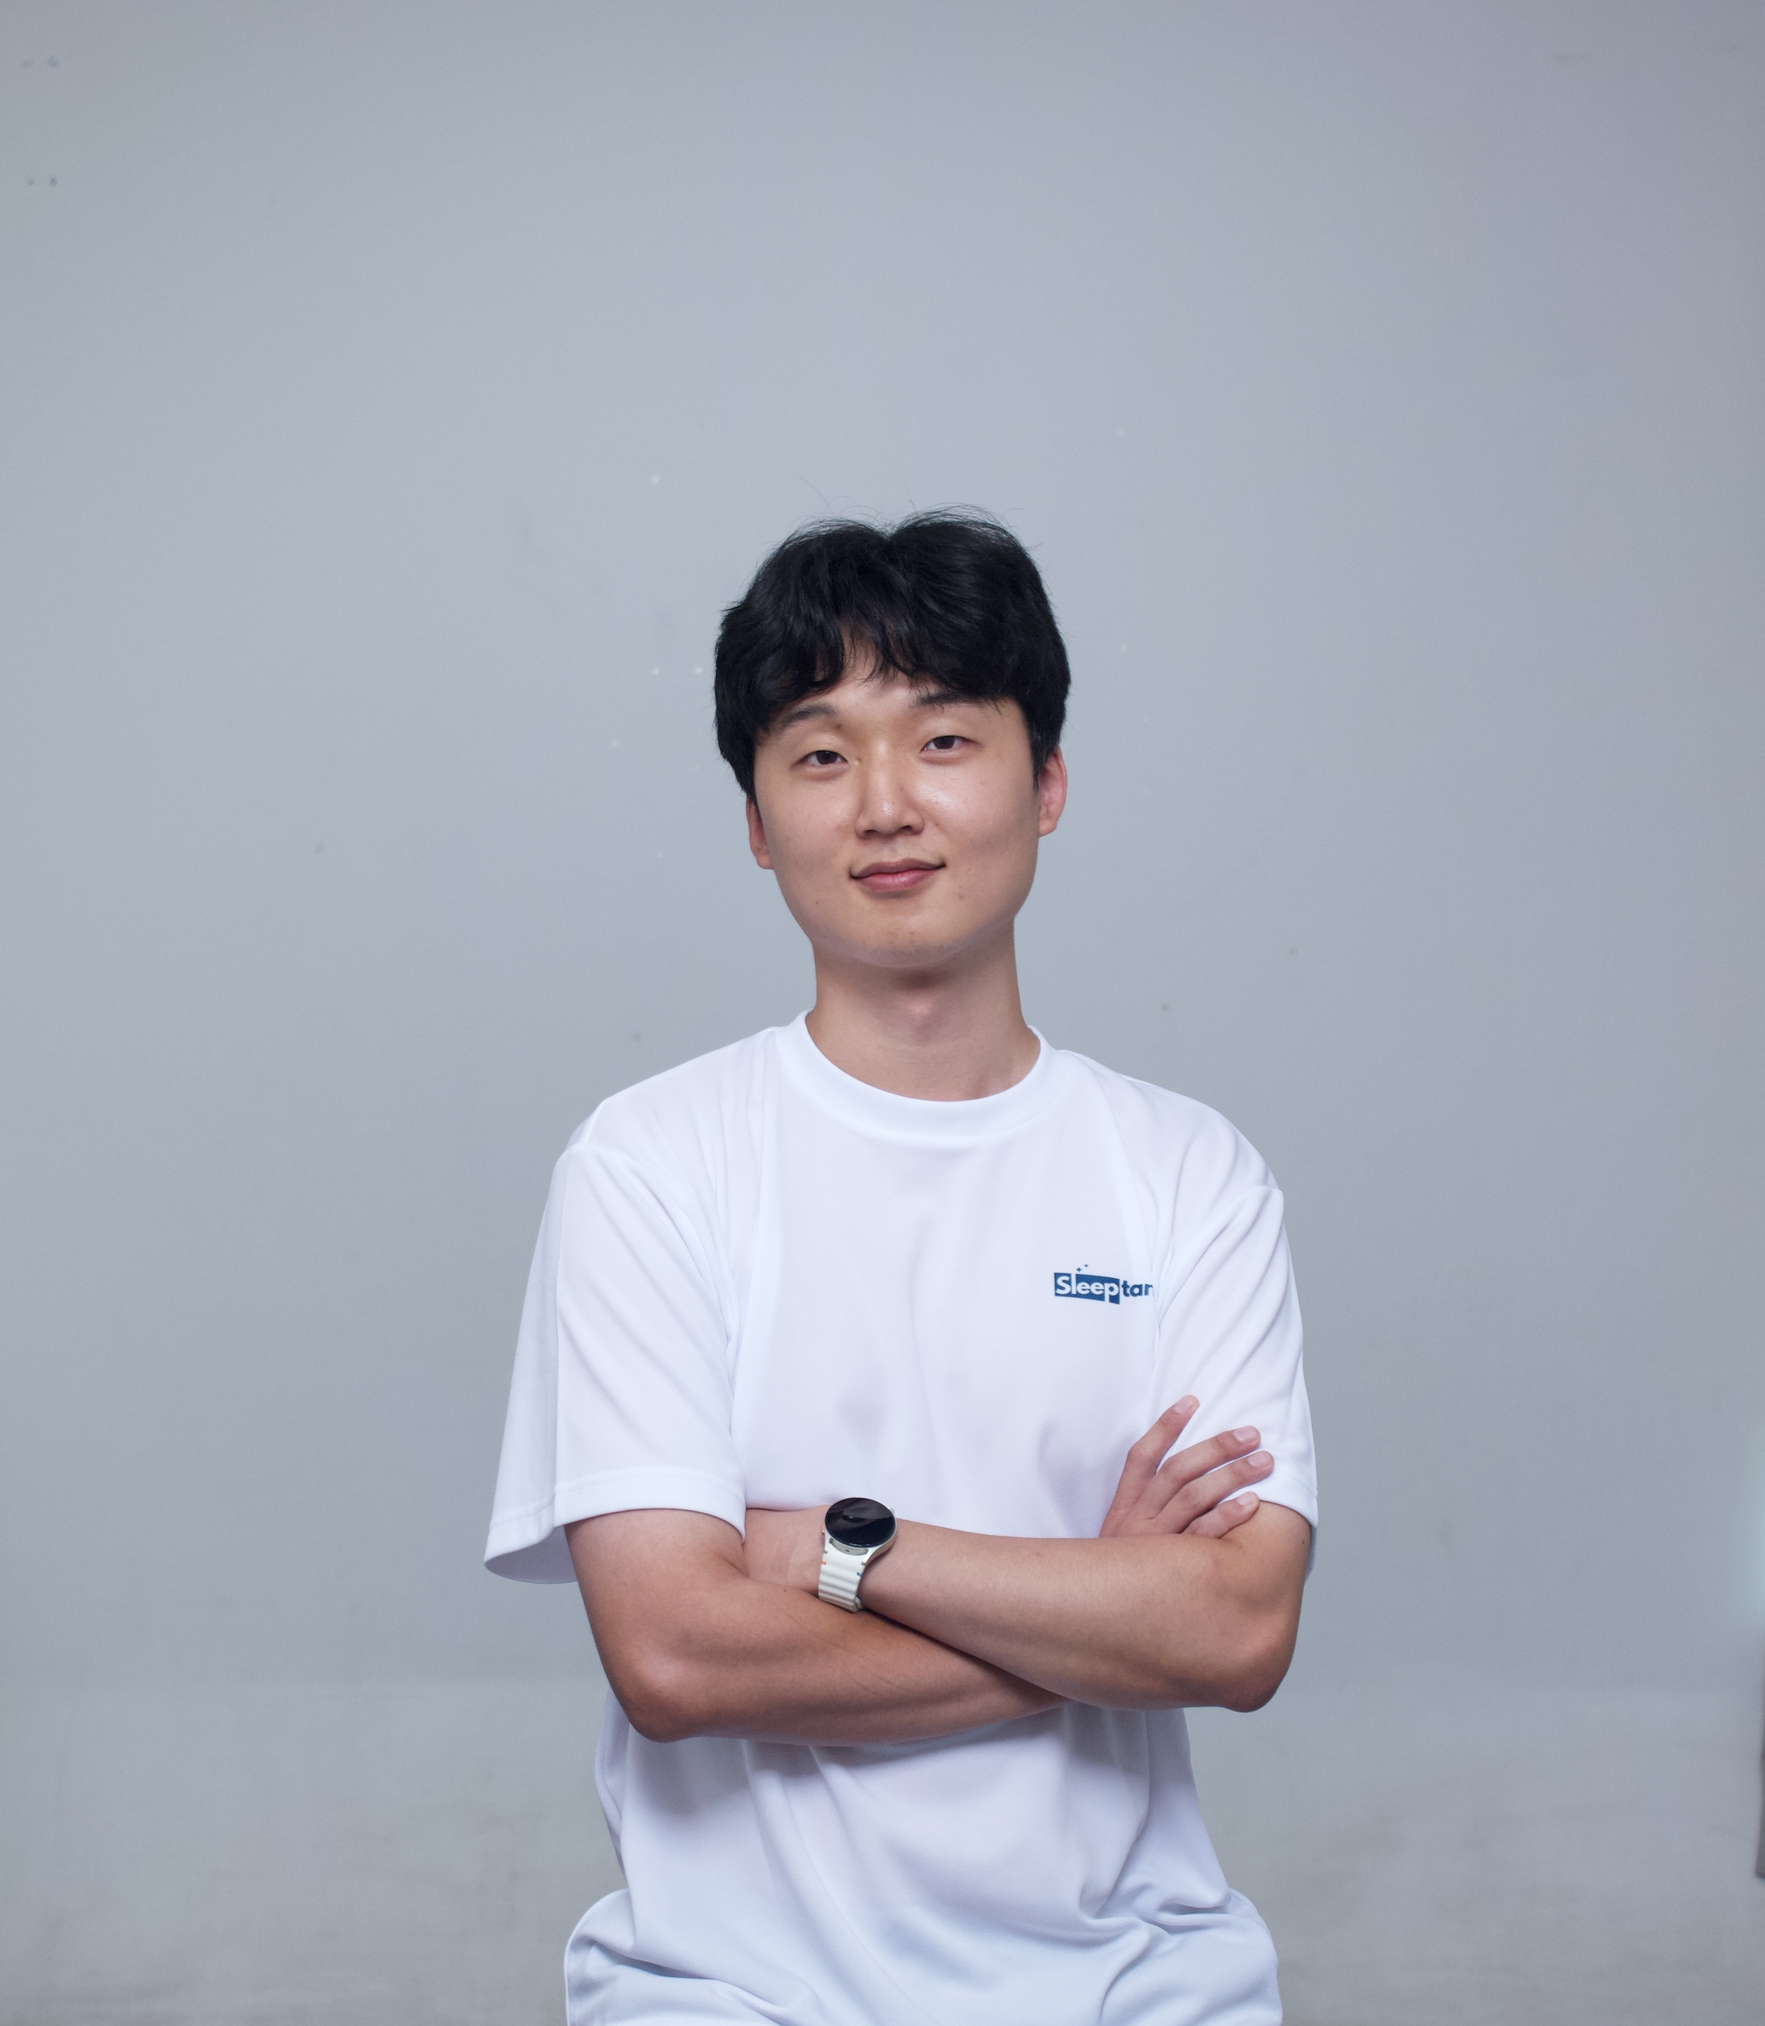
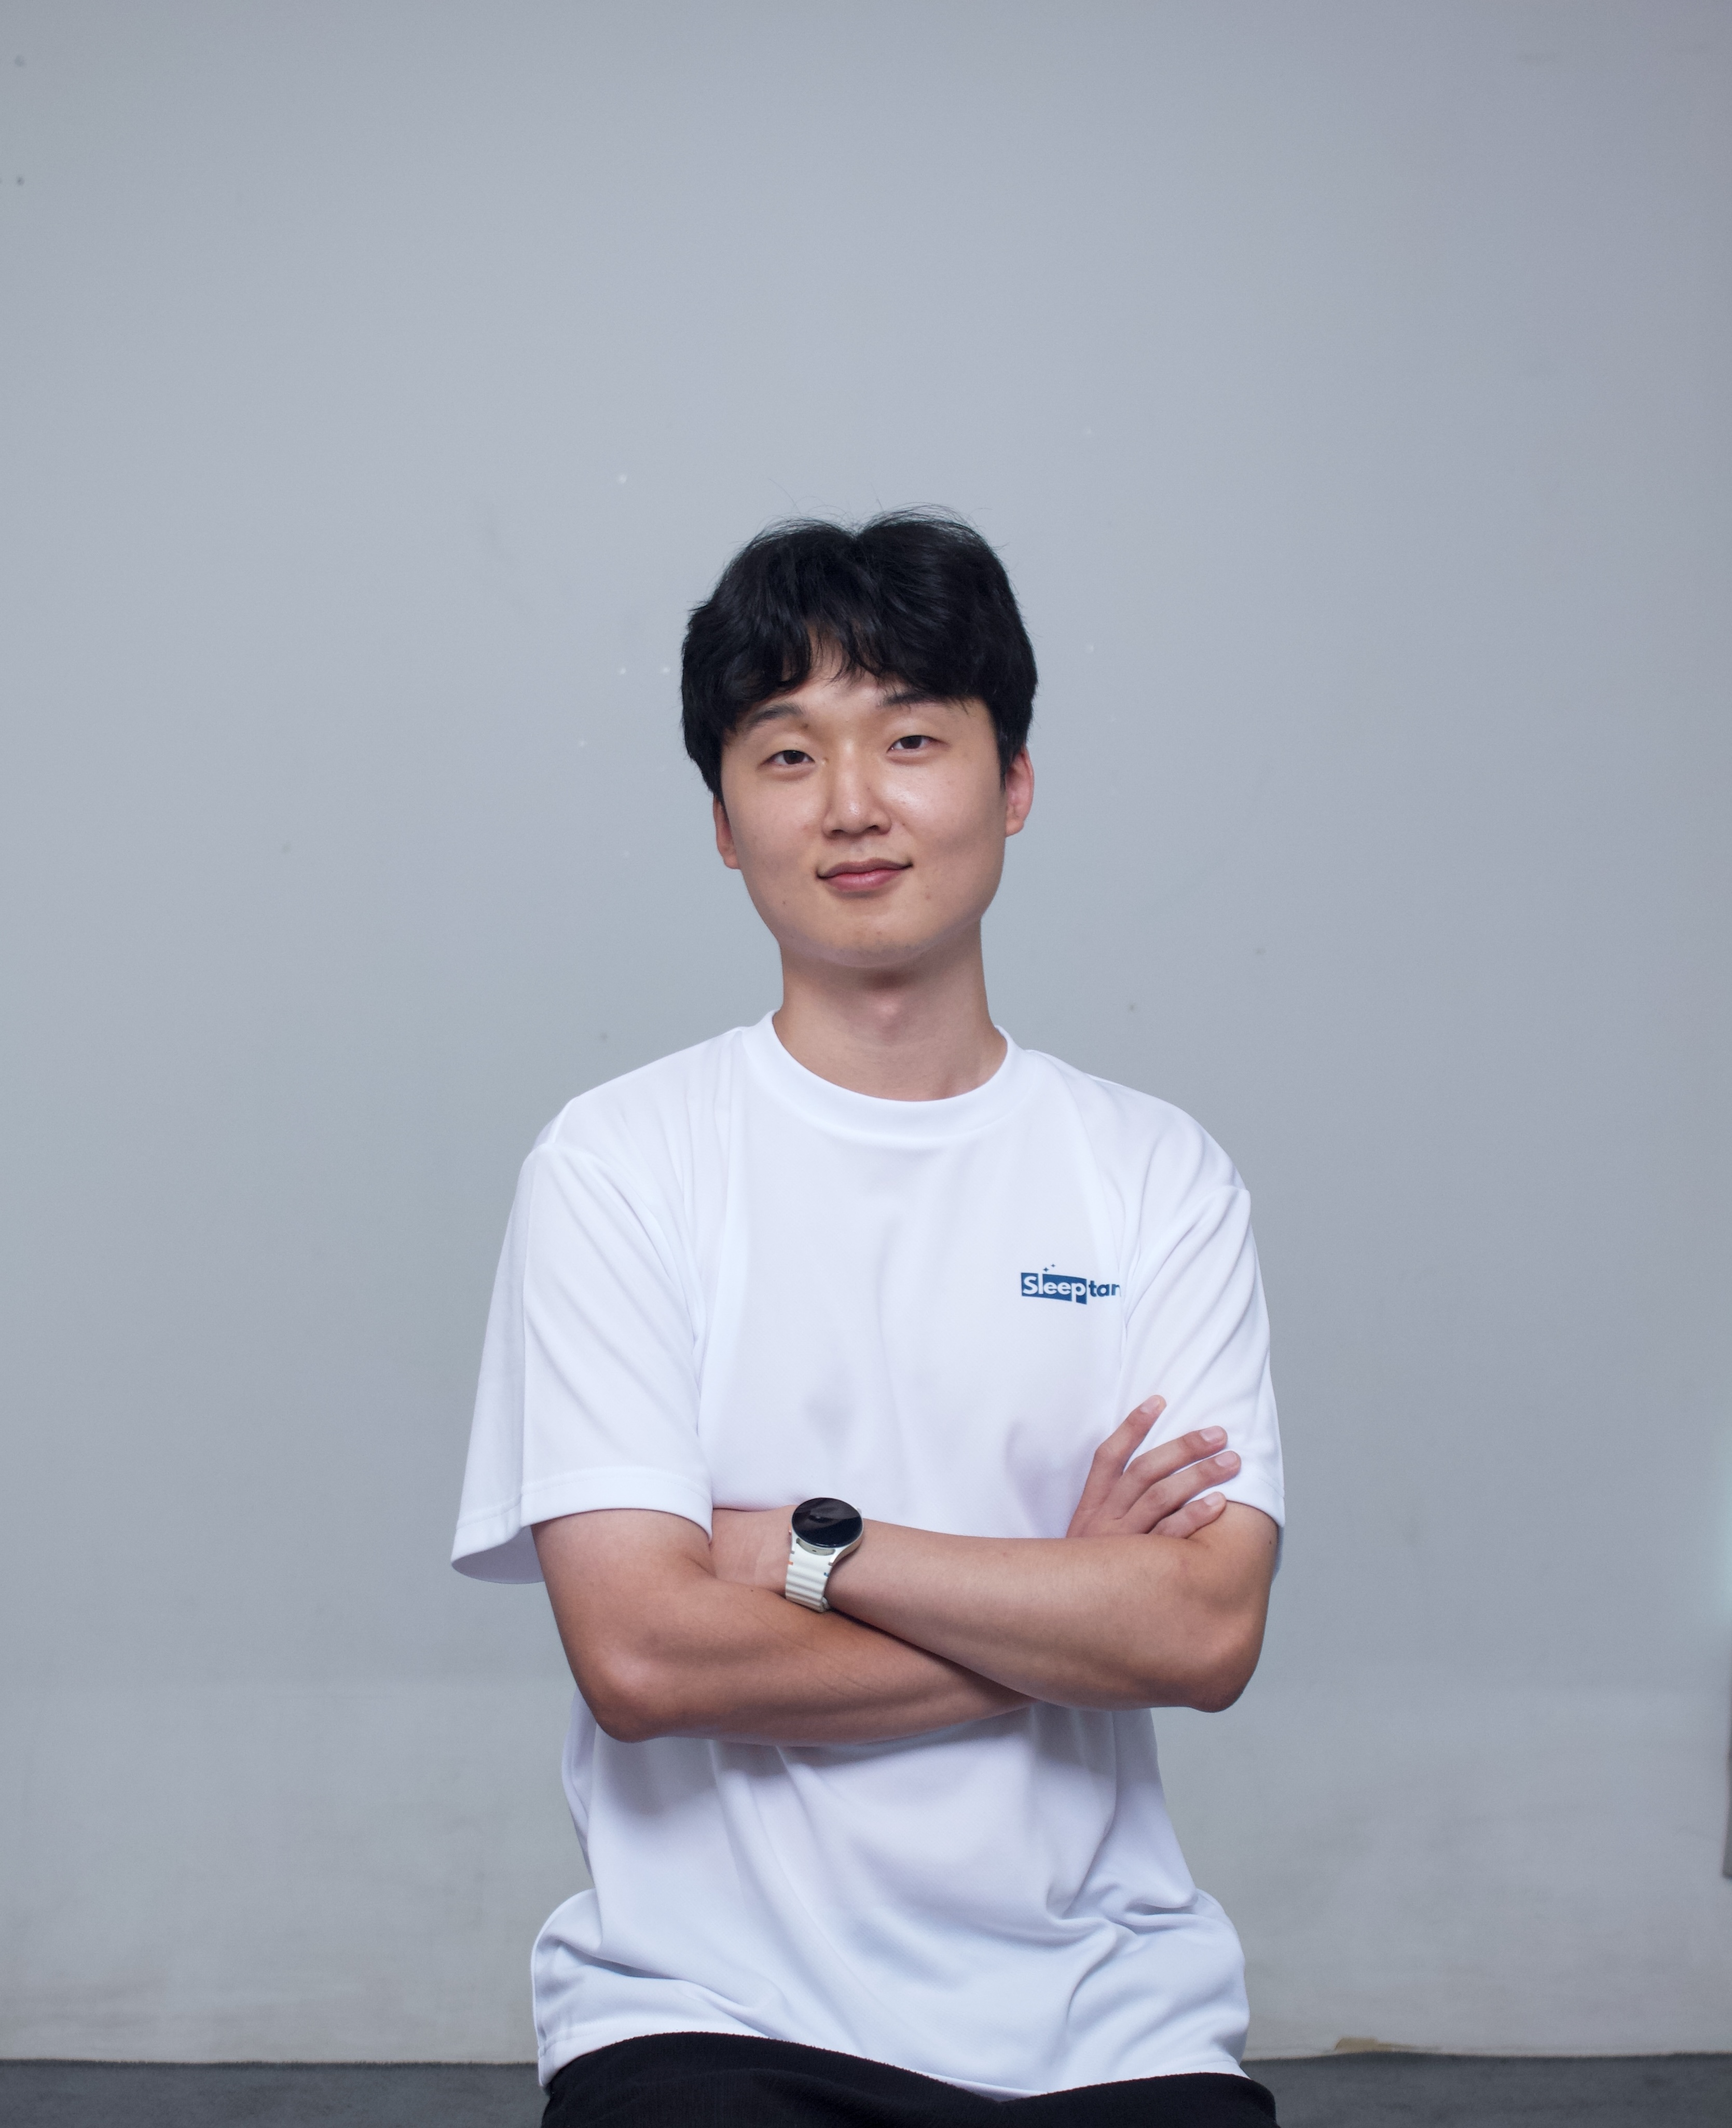
style: Home 페이지 team6 사진 크롭 제거 및 원본 비율 전체 표시

Changed region(s): [[0.0, 0.2187, 1.0, 1.0], [0.997, 0.7498, 1.0, 0.8435]]

diff --git a/app/page.tsx b/app/page.tsx
@@ -52,12 +52,13 @@ export default function HomePage() {
       {/* 3. Team Summary Section */}
       <section className="flex h-screen w-full snap-start flex-col items-center justify-center bg-background px-5 pt-16">
         <div className="mx-auto grid max-w-5xl items-center gap-8 md:grid-cols-2 md:gap-12">
-          <div className="relative aspect-[4/3] w-full overflow-hidden rounded-3xl border border-border/50 shadow-2xl">
+          <div className="relative w-full overflow-hidden rounded-3xl border border-border/50 shadow-2xl bg-secondary/10 flex items-center justify-center">
             <Image
               src="/images/team/team6.jpg"
               alt="Sleeptandard Team"
-              fill
-              className="object-cover"
+              width={1200}
+              height={900}
+              className="w-full h-auto object-contain rounded-3xl"
             />
           </div>
           <div className="text-left">

diff --git a/app/team/page.tsx b/app/team/page.tsx
@@ -39,15 +39,15 @@ export default function TeamPage() {
     <main className="min-h-screen pt-24 pb-16">
       <div className="mx-auto max-w-6xl px-5">
         {/* Team Banner / Group Image (Team1.jpg) */}
-        <div className="relative mb-12 h-64 w-full overflow-hidden rounded-3xl sm:h-80 md:h-96 shadow-2xl">
+        <div className="relative mb-12 w-full overflow-hidden rounded-3xl border border-border/50 shadow-2xl bg-secondary/10">
           <Image
             src="/images/team/Team1.jpg"
             alt="Sleeptandard Team"
-            fill
+            width={1920}
+            height={1080}
             priority
-            className="object-cover"
+            className="w-full h-auto object-contain rounded-3xl"
           />
-          <div className="absolute inset-0 bg-gradient-to-t from-background/80 via-transparent to-transparent" />
         </div>
 
         <div className="text-center">
